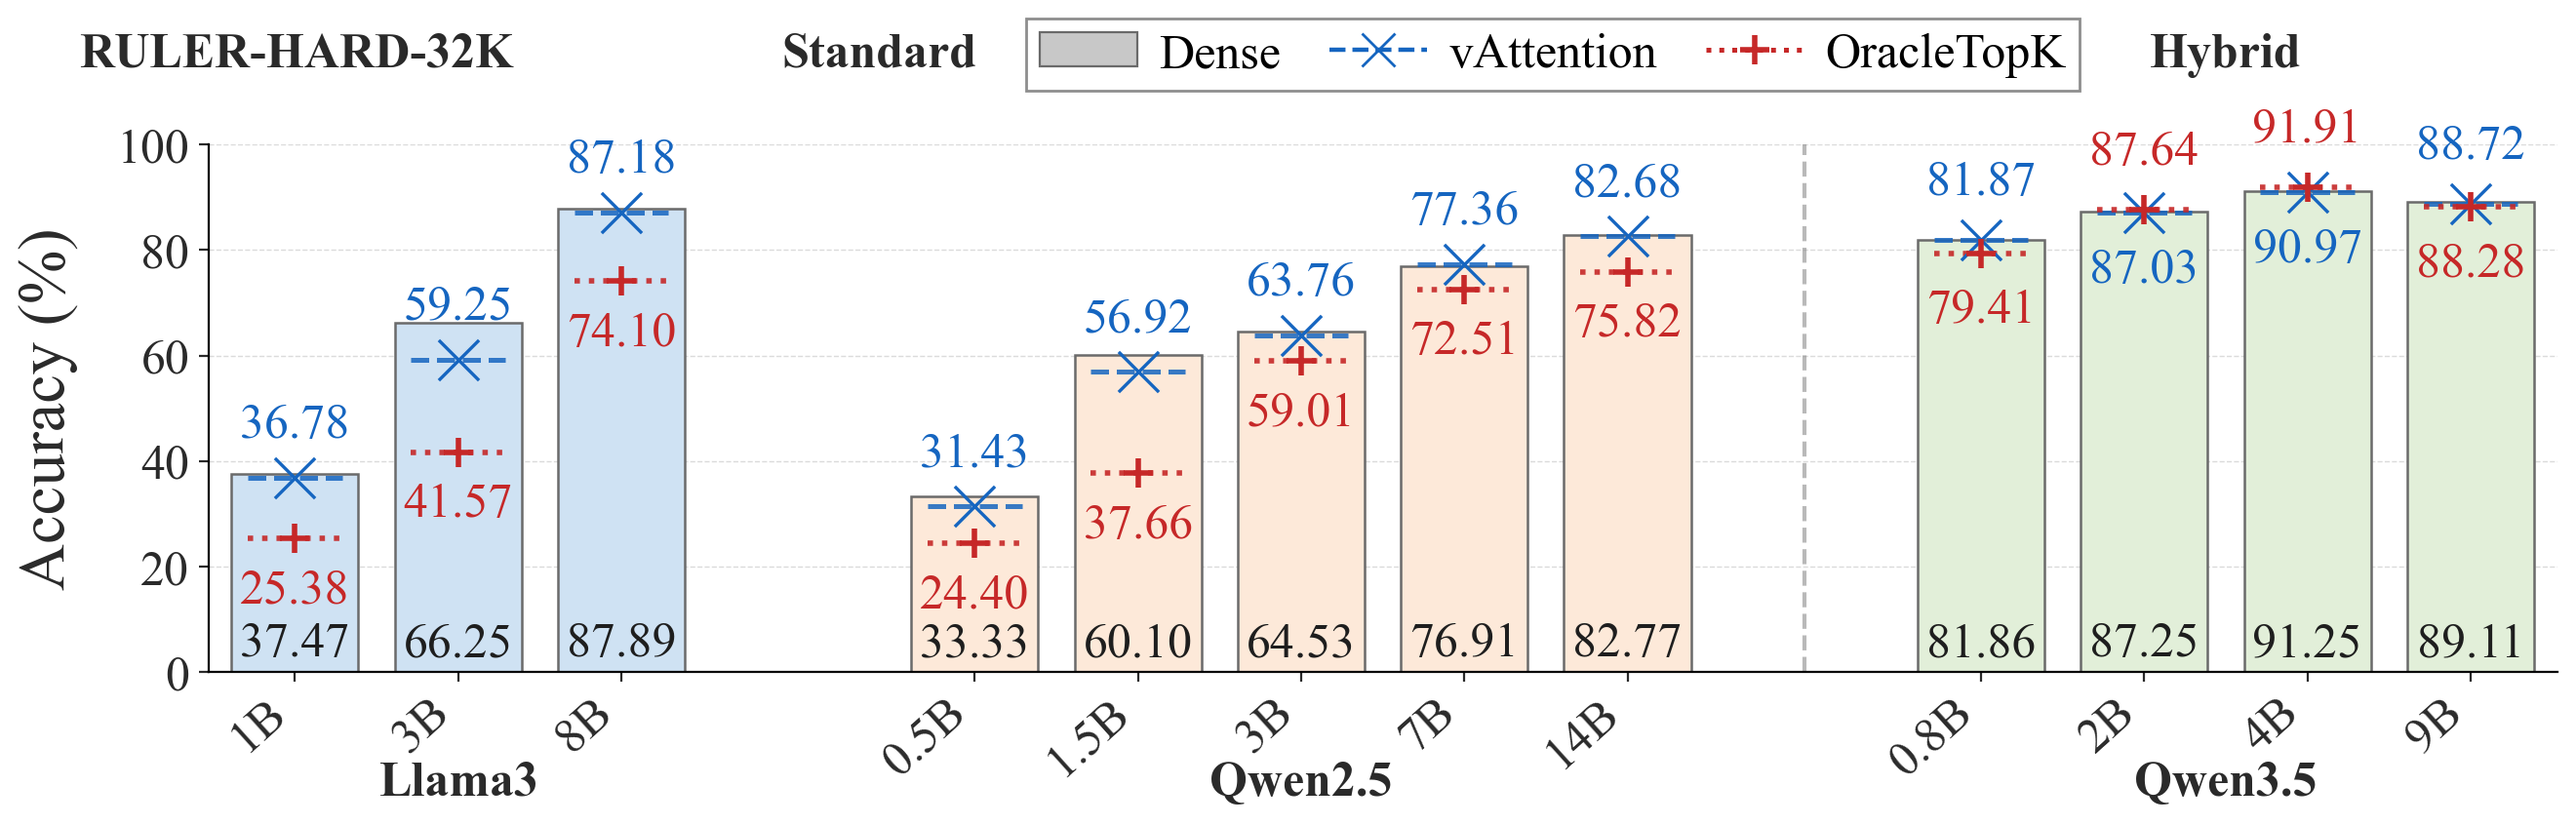
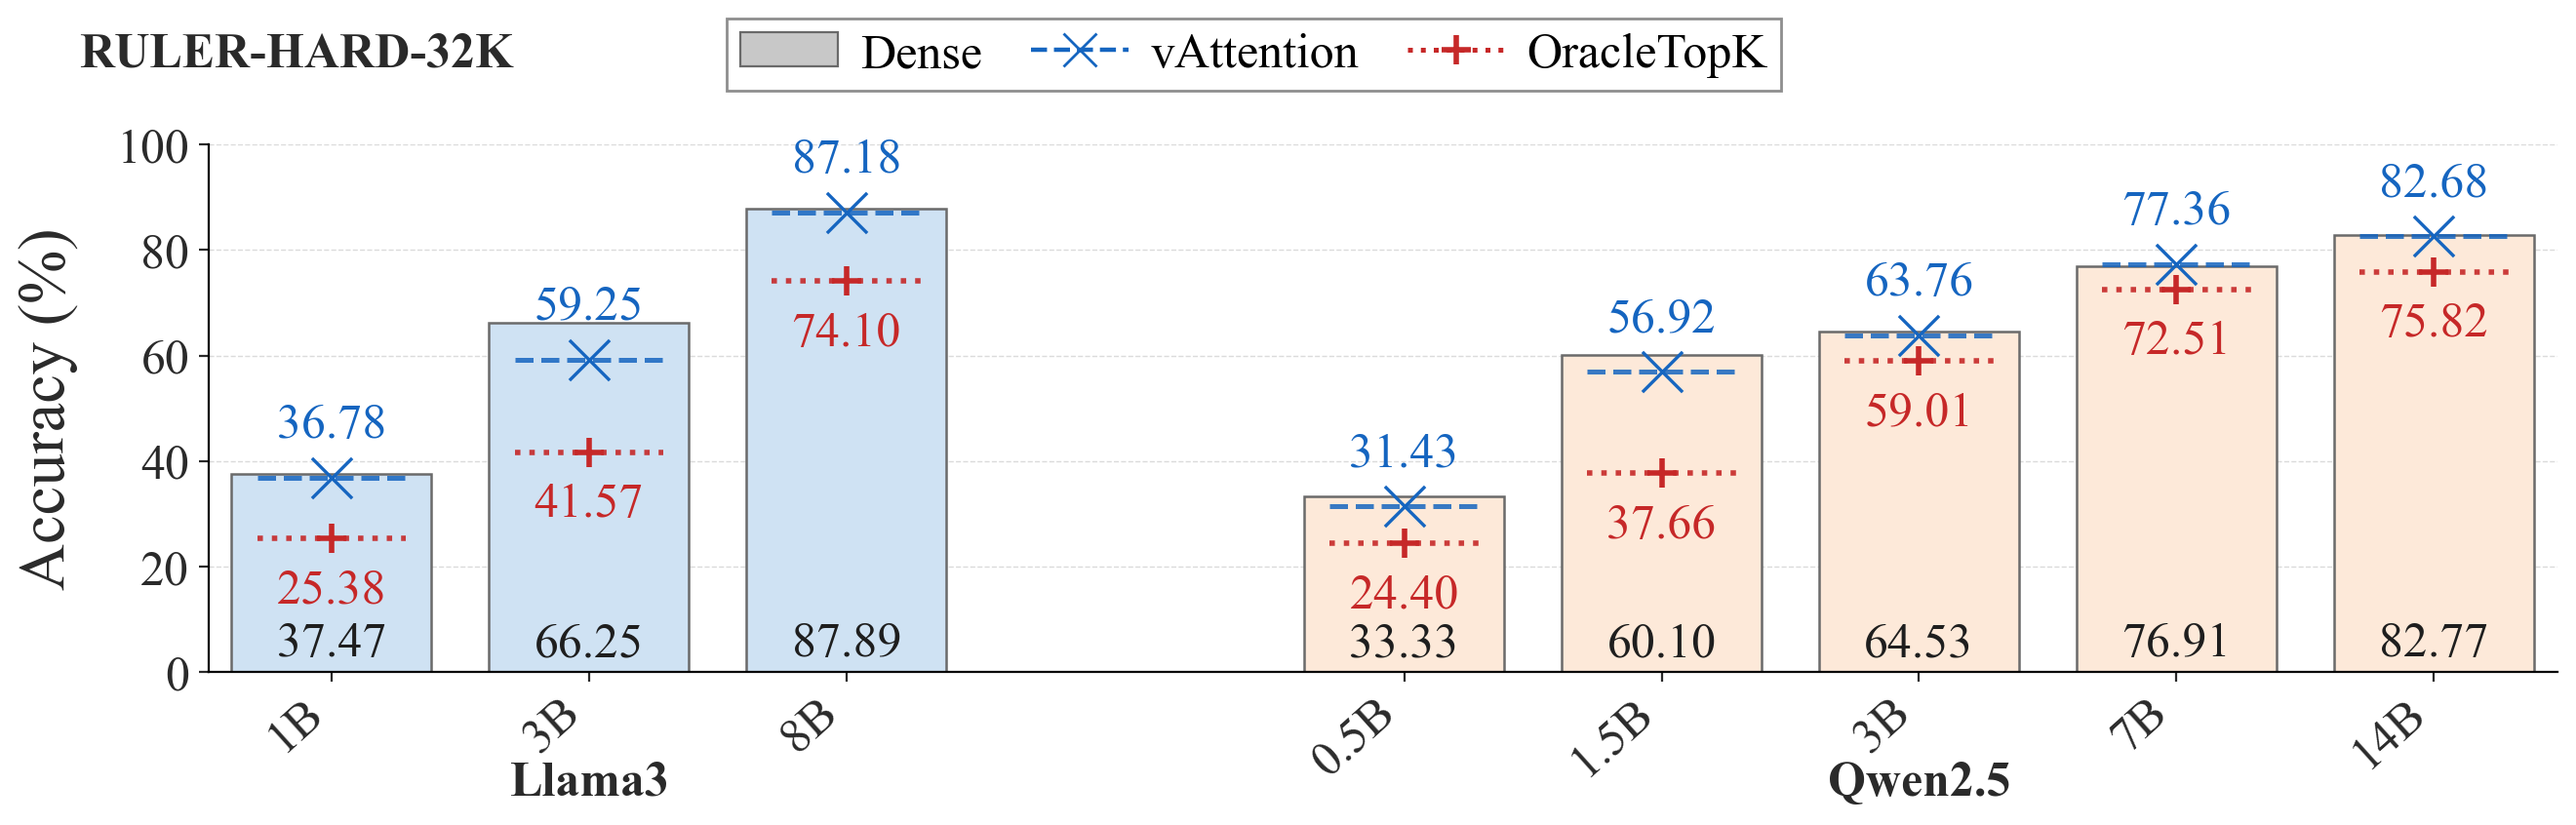
vattention plots

diff --git a/plot_vattention.py b/plot_vattention.py
@@ -33,13 +33,6 @@ def plot_clean(theme="light"):
             "vattention": [31.43333333, 56.92166667, 63.755, 77.355, 82.67833333],
             "oracle_topk": [24.4, 37.655, 59.01166667, 72.51166667, 75.82166667],
         },
-        "Qwen3.5": {
-            "group": "Hybrid",
-            "sizes": [0.8, 2, 4, 9],
-            "dense": [81.855, 87.255, 91.245, 89.11166667],
-            "vattention": [81.86666667, 87.03333333, 90.96666667, 88.72166667],
-            "oracle_topk": [79.41166667, 87.645, 91.91166667, 88.27833333],
-        },
     }
 
     fig, ax = plt.subplots(figsize=(14, 5.2))
@@ -47,13 +40,11 @@ def plot_clean(theme="light"):
     bar_step = 0.90
     line_half_width = 0.26
     model_gap = 1.05
-    model_order = ["Llama3", "Qwen2.5", "Qwen3.5"]
+    model_order = ["Llama3", "Qwen2.5"]
 
     xticks, xticklabels = [], []
     group_centers = []
     section_centers = {"Standard": [], "Hybrid": []}
-    x_last_qwen25 = None
-    x_first_qwen35 = None
 
     x_cursor = 0
     trans_blended = blended_transform_factory(ax.transData, ax.transAxes)
@@ -189,21 +180,7 @@ def plot_clean(theme="light"):
         group_centers.append(gc)
         section_centers[model_data["group"]].append(gc)
 
-        if model_name == "Qwen2.5":
-            x_last_qwen25 = float(xs[-1])
-        if model_name == "Qwen3.5":
-            x_first_qwen35 = float(xs[0])
-
         x_cursor += len(sizes) * bar_step + model_gap
-
-    if x_last_qwen25 is not None and x_first_qwen35 is not None:
-        ax.axvline(
-            0.5 * (x_last_qwen25 + x_first_qwen35),
-            color="gray",
-            linestyle="--",
-            linewidth=1.5,
-            alpha=0.55,
-        )
 
     ax.set_ylabel("Accuracy (%)", color=text_color, fontsize=fs_ylabel, labelpad=16)
     ax.yaxis.label.set_fontsize(fs_ylabel)
@@ -248,9 +225,14 @@ def plot_clean(theme="light"):
         ),
     ]
 
-    mean_std = float(np.mean(section_centers["Standard"]))
-    mean_hyb = float(np.mean(section_centers["Hybrid"]))
-    mid_legend_x = 0.5 * (mean_std + mean_hyb)
+    std_centers = section_centers["Standard"]
+    hyb_centers = section_centers["Hybrid"]
+    mean_std = float(np.mean(std_centers)) if std_centers else float("nan")
+    mean_hyb = float(np.mean(hyb_centers)) if hyb_centers else float("nan")
+    if hyb_centers:
+        mid_legend_x = 0.5 * (mean_std + mean_hyb)
+    else:
+        mid_legend_x = mean_std
     trans_top = blended_transform_factory(ax.transData, ax.transAxes)
     y_top_row = 1.17
     leg_face = "white" if theme == "light" else "#2a2a2a"
@@ -284,30 +266,19 @@ def plot_clean(theme="light"):
         color=text_color,
         zorder=11,
     )
-    ax.text(
-        mean_std,
-        y_top_row,
-        "Standard",
-        transform=trans_top,
-        ha="center",
-        va="center",
-        fontsize=fs,
-        fontweight="bold",
-        color=text_color,
-        zorder=11,
-    )
-    ax.text(
-        mean_hyb,
-        y_top_row,
-        "Hybrid",
-        transform=trans_top,
-        ha="center",
-        va="center",
-        fontsize=fs,
-        fontweight="bold",
-        color=text_color,
-        zorder=11,
-    )
+    if hyb_centers:
+        ax.text(
+            mean_hyb,
+            y_top_row,
+            "Hybrid",
+            transform=trans_top,
+            ha="center",
+            va="center",
+            fontsize=fs,
+            fontweight="bold",
+            color=text_color,
+            zorder=11,
+        )
 
     plt.subplots_adjust(bottom=0.24, left=0.13, right=0.99, top=0.76)
     plt.show()
